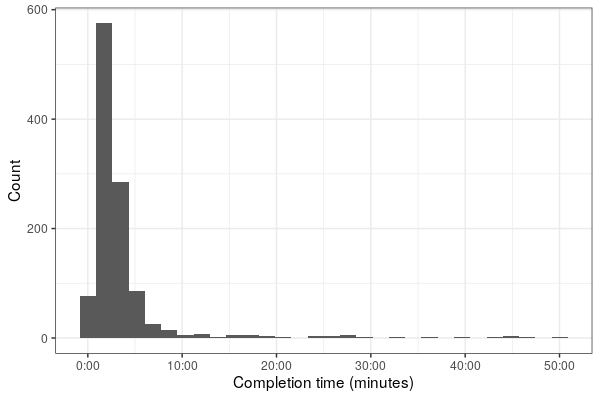
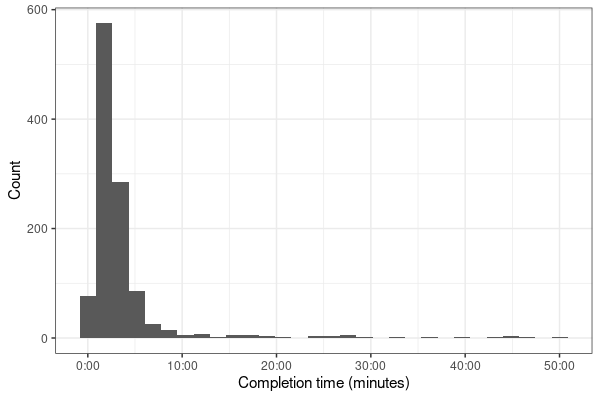
mturk: added plot back in

Changed region(s): [[0.39, 0.93, 0.54, 0.99], [0.57, 0.93, 0.69, 0.99], [0.0, 0.39, 0.03, 0.51]]

diff --git a/mturk-compensation.html b/mturk-compensation.html
@@ -1,13 +1,13 @@
 <!DOCTYPE html>
 <html lang="en">
 <head>
-<!-- 2020-06-15 Mon 14:36 -->
-<meta charset="utf-8">
-<meta name="viewport" content="width=device-width, initial-scale=1">
+<!-- 2022-09-05 Mon 10:20 -->
+<meta charset="utf-8" />
+<meta name="viewport" content="width=device-width, initial-scale=1" />
 <title>How to calculate worker compensation for Amazon Mechanical Turk</title>
-<meta name="generator" content="Org mode">
-<style type="text/css">
- <!--/*--><![CDATA[/*><!--*/
+<meta name="generator" content="Org Mode" />
+<style>
+  #content { max-width: 60em; margin: auto; }
   .title  { text-align: center;
              margin-bottom: .2em; }
   .subtitle { text-align: center;
@@ -28,8 +28,9 @@
   #postamble p, #preamble p { font-size: 90%; margin: .2em; }
   p.verse { margin-left: 3%; }
   pre {
-    border: 1px solid #ccc;
-    box-shadow: 3px 3px 3px #eee;
+    border: 1px solid #e6e6e6;
+    border-radius: 3px;
+    background-color: #f2f2f2;
     padding: 8pt;
     font-family: monospace;
     overflow: auto;
@@ -37,22 +38,22 @@
   }
   pre.src {
     position: relative;
-    overflow: visible;
-    padding-top: 1.2em;
+    overflow: auto;
   }
   pre.src:before {
     display: none;
     position: absolute;
-    background-color: white;
-    top: -10px;
-    right: 10px;
+    top: -8px;
+    right: 12px;
     padding: 3px;
-    border: 1px solid black;
+    color: #555;
+    background-color: #f2f2f299;
   }
-  pre.src:hover:before { display: inline;}
+  pre.src:hover:before { display: inline; margin-top: 14px;}
   /* Languages per Org manual */
   pre.src-asymptote:before { content: 'Asymptote'; }
   pre.src-awk:before { content: 'Awk'; }
+  pre.src-authinfo::before { content: 'Authinfo'; }
   pre.src-C:before { content: 'C'; }
   /* pre.src-C++ doesn't work in CSS */
   pre.src-clojure:before { content: 'Clojure'; }
@@ -187,40 +188,15 @@
     { font-size: 10px; font-weight: bold; white-space: nowrap; }
   .org-info-js_search-highlight
     { background-color: #ffff00; color: #000000; font-weight: bold; }
-  .org-svg { width: 90%; }
-  /*]]>*/-->
+  .org-svg { }
 </style>
 <link rel="stylesheet" type="text/css" href="style.css" />
-<script type="text/javascript">
-// @license magnet:?xt=urn:btih:1f739d935676111cfff4b4693e3816e664797050&amp;dn=gpl-3.0.txt GPL-v3-or-Later
-<!--/*--><![CDATA[/*><!--*/
-     function CodeHighlightOn(elem, id)
-     {
-       var target = document.getElementById(id);
-       if(null != target) {
-         elem.cacheClassElem = elem.className;
-         elem.cacheClassTarget = target.className;
-         target.className = "code-highlighted";
-         elem.className   = "code-highlighted";
-       }
-     }
-     function CodeHighlightOff(elem, id)
-     {
-       var target = document.getElementById(id);
-       if(elem.cacheClassElem)
-         elem.className = elem.cacheClassElem;
-       if(elem.cacheClassTarget)
-         target.className = elem.cacheClassTarget;
-     }
-    /*]]>*///-->
-// @license-end
-</script>
 </head>
 <body>
 <nav id="preamble" class="status">
-<a href="index.html"><img src="titus_fern_canyon_small.png" alt="Photo of Titus von der Malsburg" id="profilepic1"/></a><ul id="menu"><li><a href="index.html#news">News</a></li><li><a href="index.html#contact">Contact</a></li><li><a href="index.html#bio">Bio</a></li><li><a href="index.html#publications">Publications</a></li><li><a href="index.html#technotes">Tech notes</a></li><li><a href="index.html#software">Software</a></li></ul>
+<a href="index.html"><img src="titus_fern_canyon_small.png" alt="Photo of Titus von der Malsburg" id="profilepic1"/></a><hr><ul id="menu"><li><a href="index.html">Contact</a></li><li><a href="index.html#news">News</a></li><li><a href="index.html#bio">Bio</a></li><li><a href="index.html#publications">Publications</a></li><li><a href="index.html#blog">Blog</a></li><li><a href="index.html#software">Software</a></li></ul><hr>
 </nav>
-<main id="content">
+<main id="content" class="content">
 <header>
 <h1 class="title">How to calculate worker compensation for Amazon Mechanical Turk</h1>
 </header><p>
@@ -240,6 +216,12 @@ Overall, 1122 workers participated in the experiment and each worker participate
 <p>
 The average completion time as shown by MTurk was 3 minutes and 46 seconds, not too far off from what we would expect for this task.  But let’s have a closer look at the completion times:<br>
 </p>
+
+
+<figure id="org739bd1f">
+<img src="distribution.png" alt="distribution.png"><br>
+
+</figure>
 
 <p>
 The plot shows how completion times are distributed in the data set.  We see that the vast majority of workers finished in under eight minutes.  However, there was also a smaller number of workers (about 6.5%) who took considerably longer, up to 50 minutes.  For these participants the payment per hour is of course very low, but that’s not because we offered too little money, it’s because these participants did something else during that time.<br>
